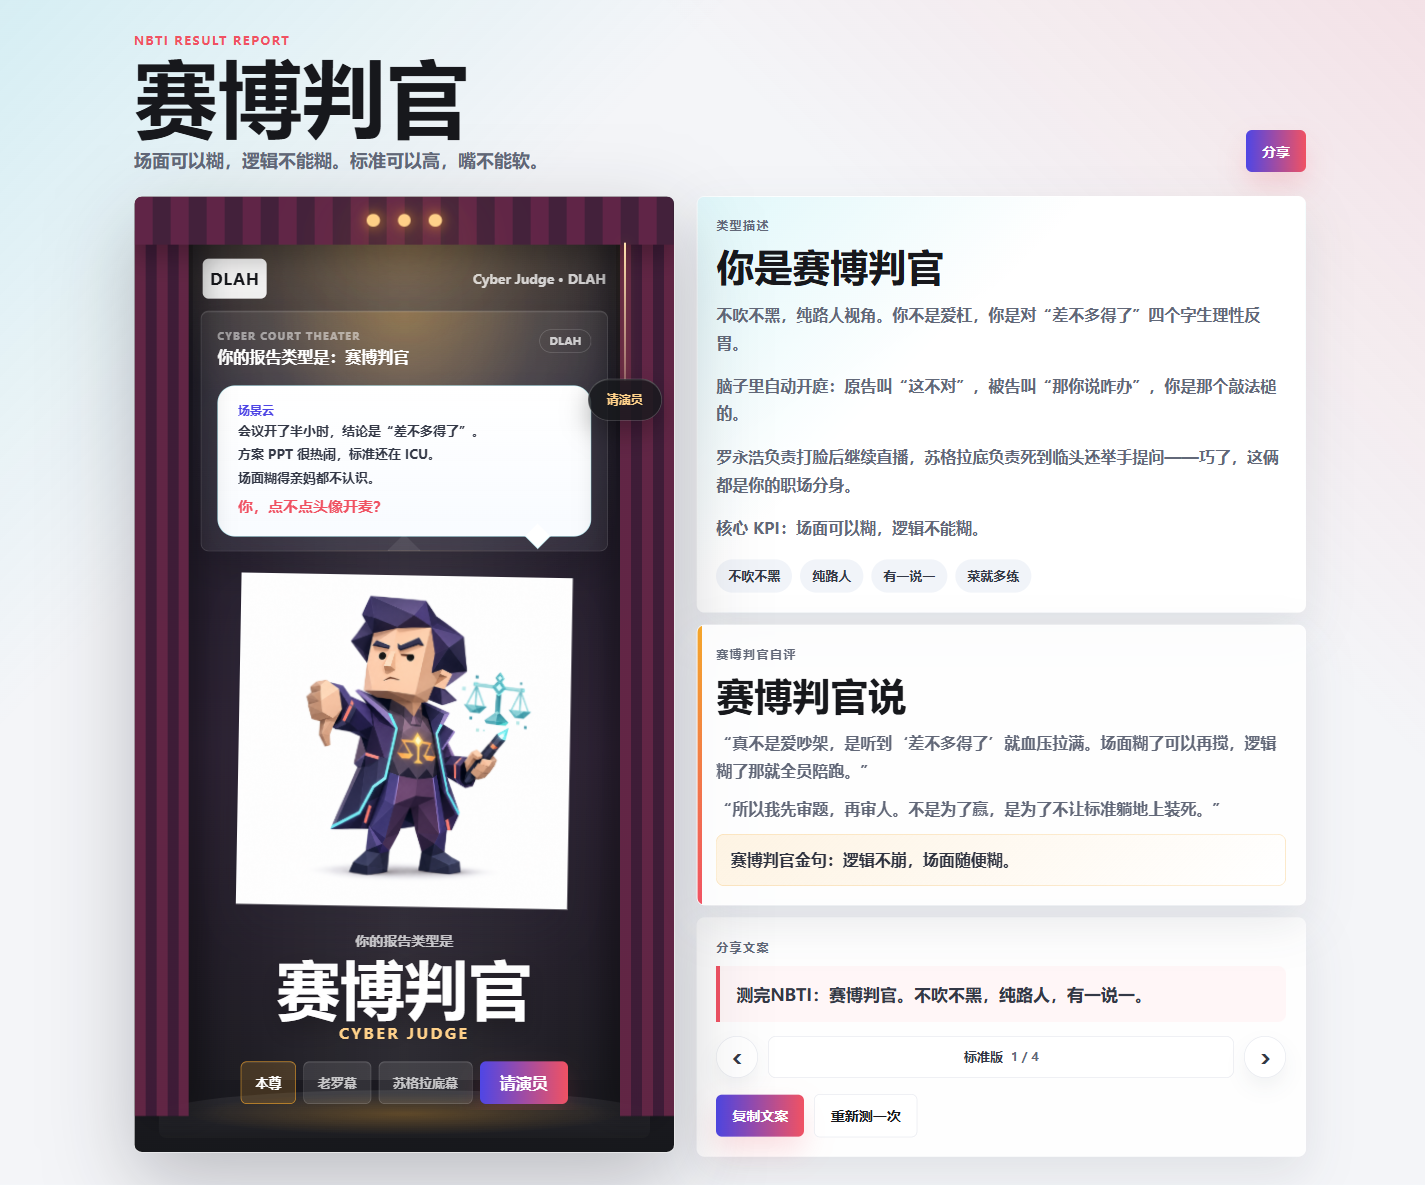
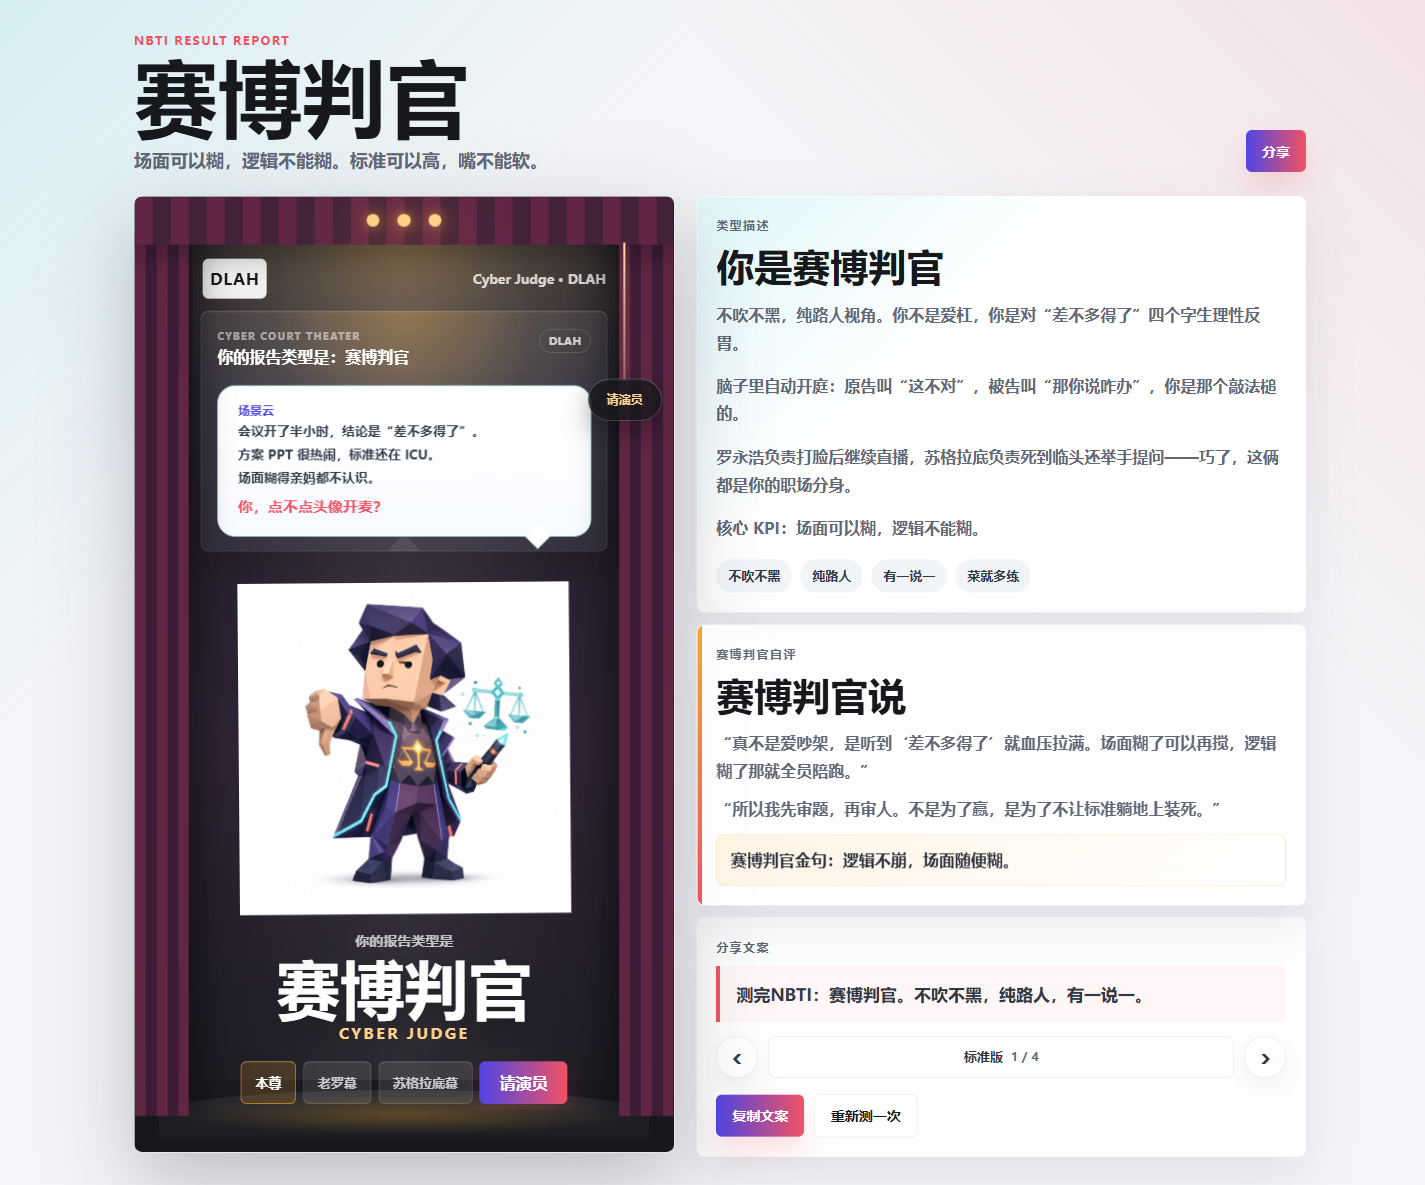
Copy V3 celebrity type samples

diff --git a/script.js b/script.js
@@ -78,11 +78,11 @@ const guestScenes = [
       "./assets/celebrity-cameos/dlah-cyber-judge-luo-yonghao-cameo-white-bg-v2.png",
     alt: "赛博判官与罗永浩的低多边形名场面合影",
     commentary: {
-      kicker: "名人点评",
-      title: "罗永浩说",
+      kicker: "名人类型",
+      title: "罗永浩型赛博判官",
       paragraphs: [
-        "“你不是爱挑刺，你是看见一锅粥里没几粒米还非要把米捞出来。别人说‘差不多’，你问‘差多少、凭什么得’——讨人嫌，但有用。”",
-        "“打脸不丢人，丢人的是打完脸还拿旧版本嘴硬。你能把自己也摆上审判席，这就不是抬杠，是还能修 bug。”",
+        "这是赛博判官的“打脸后还能开播”分支：嘴上标准很高，现实一来先被系统暴击，但不会装死。",
+        "他的类型名场面不是永远正确，而是敢把旧话、新账和现实压力摆到同一张桌上审。脸可以肿，活儿还得干，bug 也得继续修。",
       ],
       quote: "罗永浩同款判官：脸可以肿，系统不能崩。",
     },
@@ -105,11 +105,11 @@ const guestScenes = [
       "./assets/celebrity-cameos/dlah-cyber-judge-socrates-cameo-white-bg-v2.png",
     alt: "赛博判官与苏格拉底的低多边形名场面合影",
     commentary: {
-      kicker: "名人点评",
-      title: "苏格拉底说",
+      kicker: "名人类型",
+      title: "苏格拉底型赛博判官",
       paragraphs: [
-        "“你不是不合群，你是受不了大家连‘这词到底啥意思’都没掰扯清，就开始站队打分。你问一句‘定义呢？’，全场当你抬杠。”",
-        "“没定义就下结论，那叫起哄。你反复追问不是拖延，是替所有人防坑。把一团乱麻问成一条直线，这活只有你干得了。”",
+        "这是赛博判官的“死线前还要先定义”分支：别人已经准备投票了，他还在问这题到底怎么判。",
+        "他的类型名场面不是故意抬杠，而是拒绝让混乱假装成共识。概念没过审，情绪再满也先靠边；一团乱麻，必须问成一条直线。",
       ],
       quote: "苏格拉底同款判官：死线在前，定义在先，情绪靠边。",
     },

diff --git a/docs/copy-version-log.md b/docs/copy-version-log.md
@@ -112,3 +112,48 @@ git checkout copy-v1-open-mic-mouthpiece
 - 顶部只出现一个 `分享` 操作。
 - 分享文案可通过左右箭头在四个版本之间切换。
 - 截图保存 `screenshots/report-share-page.png`。
+
+## V3 名人类型样本版
+
+版本代号：`copy-v3-celebrity-type-samples`
+
+修改日期：2026-06-14
+
+修改前基线：`94a7ee2 Copy V2 minimal share arrows`
+
+修改目标：
+
+- 将名人切换后的右侧模块从“名人点评”改为“名人类型”。
+- 降低“名人在评价用户”的感觉，改成“这个名人是同类型人格的戏剧化样本”。
+- 让罗永浩和苏格拉底分别承担赛博判官的两种分支：行动版 / 追问版。
+
+修改范围：
+
+- 罗永浩幕：`名人点评 / 罗永浩说` 改为 `名人类型 / 罗永浩型赛博判官`。
+- 苏格拉底幕：`名人点评 / 苏格拉底说` 改为 `名人类型 / 苏格拉底型赛博判官`。
+- 两段正文从拟态点评改为类型样本说明，强调“名场面如何体现这个类型”。
+
+保留原则：
+
+- 默认态仍保留 `赛博判官自评 / 赛博判官说`。
+- 名人幕仍保留有趣、带梗、可分享的语气。
+- 不写成真实背书，不让名人像在正式给用户下判断。
+
+回退方式：
+
+```bash
+git checkout copy-v3-celebrity-type-samples
+```
+
+如需回到本版之前，回退到 V2：
+
+```bash
+git checkout copy-v2-minimal-share-arrows
+```
+
+验证方式：
+
+- 切换到老罗幕时，右侧显示 `名人类型 / 罗永浩型赛博判官`。
+- 切换到苏格拉底幕时，右侧显示 `名人类型 / 苏格拉底型赛博判官`。
+- 页面不再出现 `名人点评`。
+- 截图保存 `screenshots/report-share-page.png`。